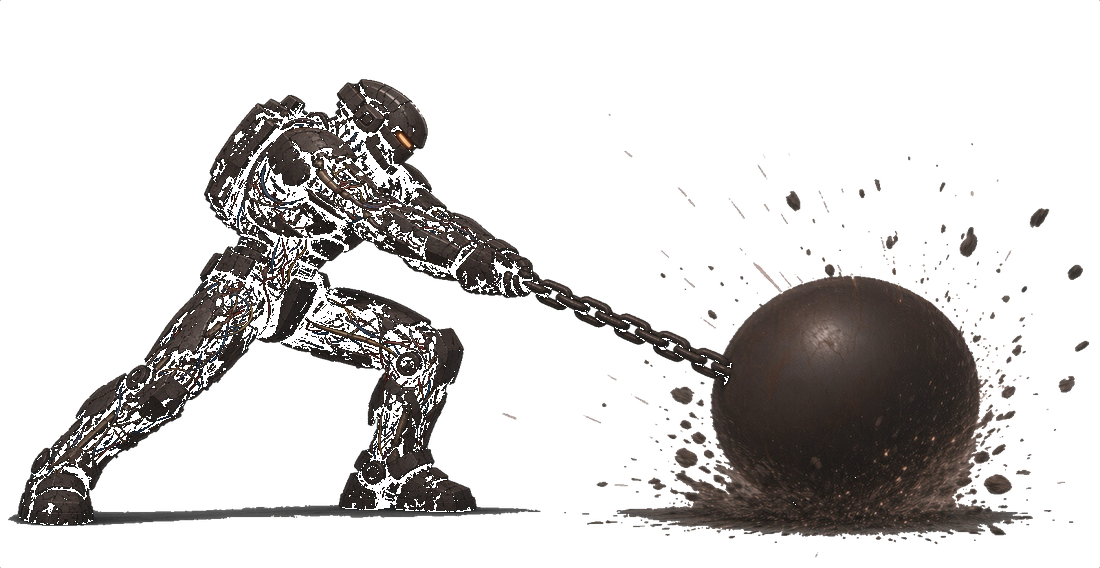
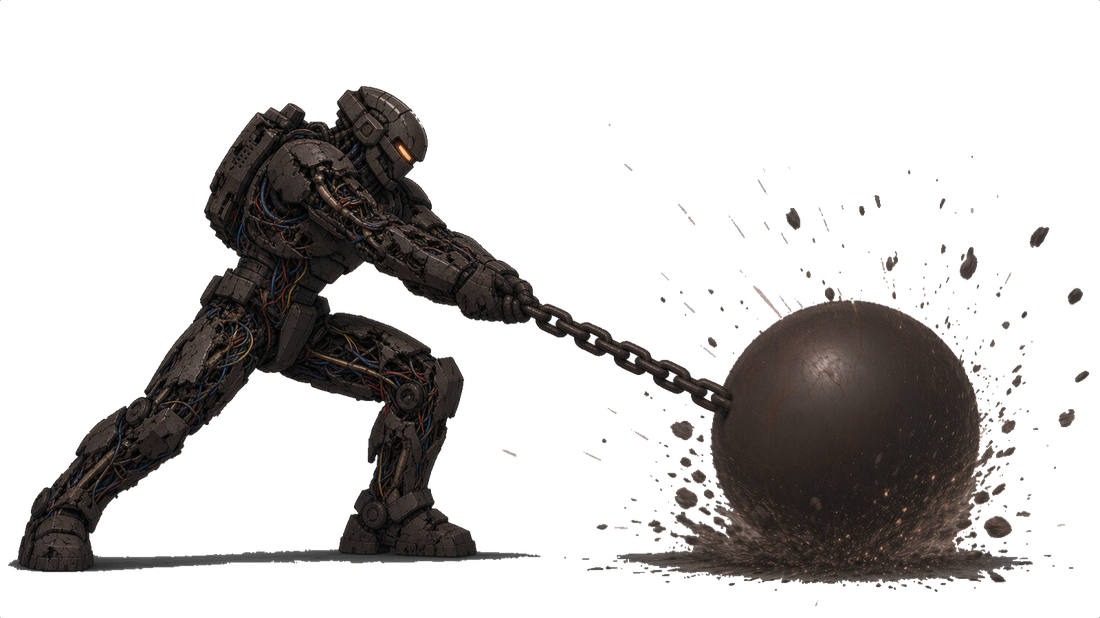
Conservar armadura oscura de Óxido: solo quitar fondo negro.

Changed region(s): [[0.0309, 0.1496, 0.4945, 0.9278], [0.0309, 0.8979, 0.0618, 0.9278]]

diff --git a/game.js b/game.js
@@ -961,8 +961,13 @@
   function cutOxidoImg(img) {
     if (!img) return img;
     var src = img.src || "";
-    if (src.indexOf(".png") >= 0) return (img.naturalWidth && src.indexOf("esqueleto") >= 0) ? cutOutNearBlack(img) : img;
-    return cutOutBg(img);
+    // PNG poses already have edge bg removed; only flood-cut jpg idle / skeleton.
+    // Never use cutOutBg here — it eats dark armor and the iron ball.
+    if (src.indexOf(".png") >= 0) {
+      if (src.indexOf("esqueleto") >= 0) return cutOutNearBlack(img);
+      return img;
+    }
+    return cutOutNearBlack(img);
   }
 
   function drawDamagedOxido(ctx, f, raw, ox, oy, dw, dh) {

diff --git a/index.html b/index.html
@@ -8,7 +8,7 @@
   <meta name="apple-mobile-web-app-status-bar-style" content="black-translucent" />
   <meta name="theme-color" content="#05070f" />
   <title>Peleas de Robots</title>
-  <link rel="stylesheet" href="style.css?v=26" />
+  <link rel="stylesheet" href="style.css?v=27" />
 </head>
 <body>
   <div id="app">
@@ -184,6 +184,6 @@
       </div>
     </section>
   </div>
-  <script src="game.js?v=26"></script>
+  <script src="game.js?v=27"></script>
 </body>
 </html>
